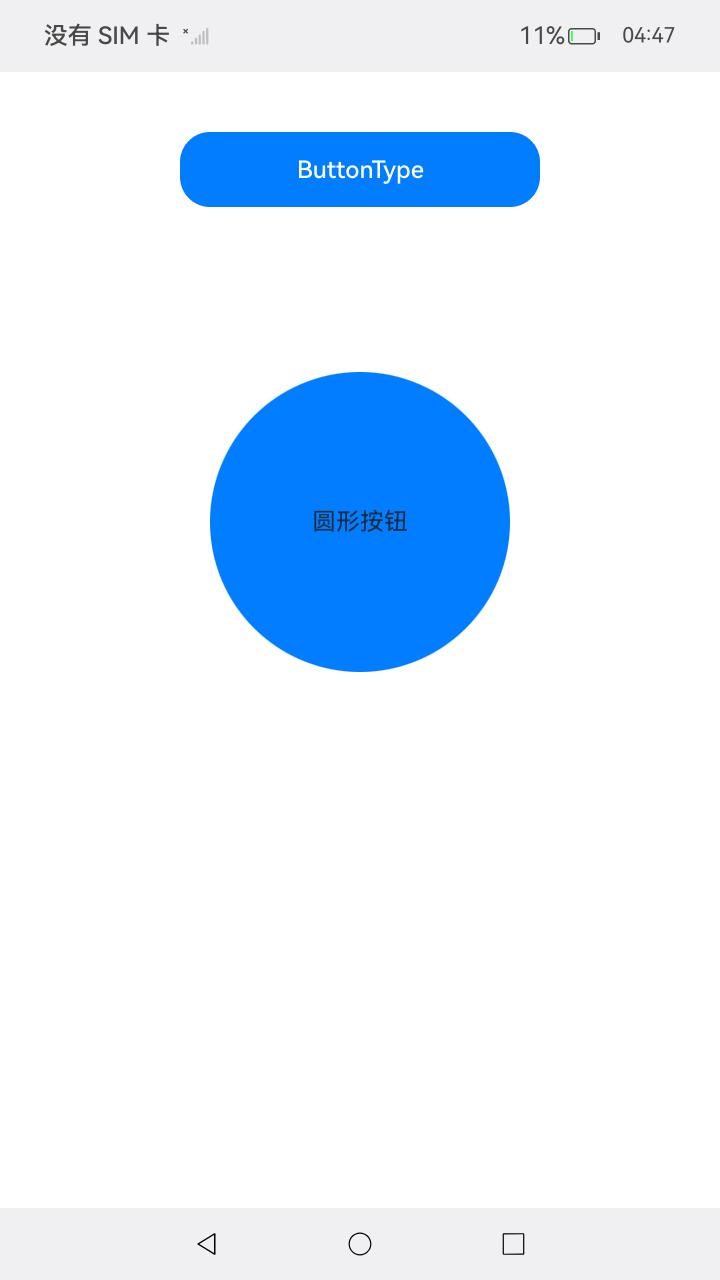
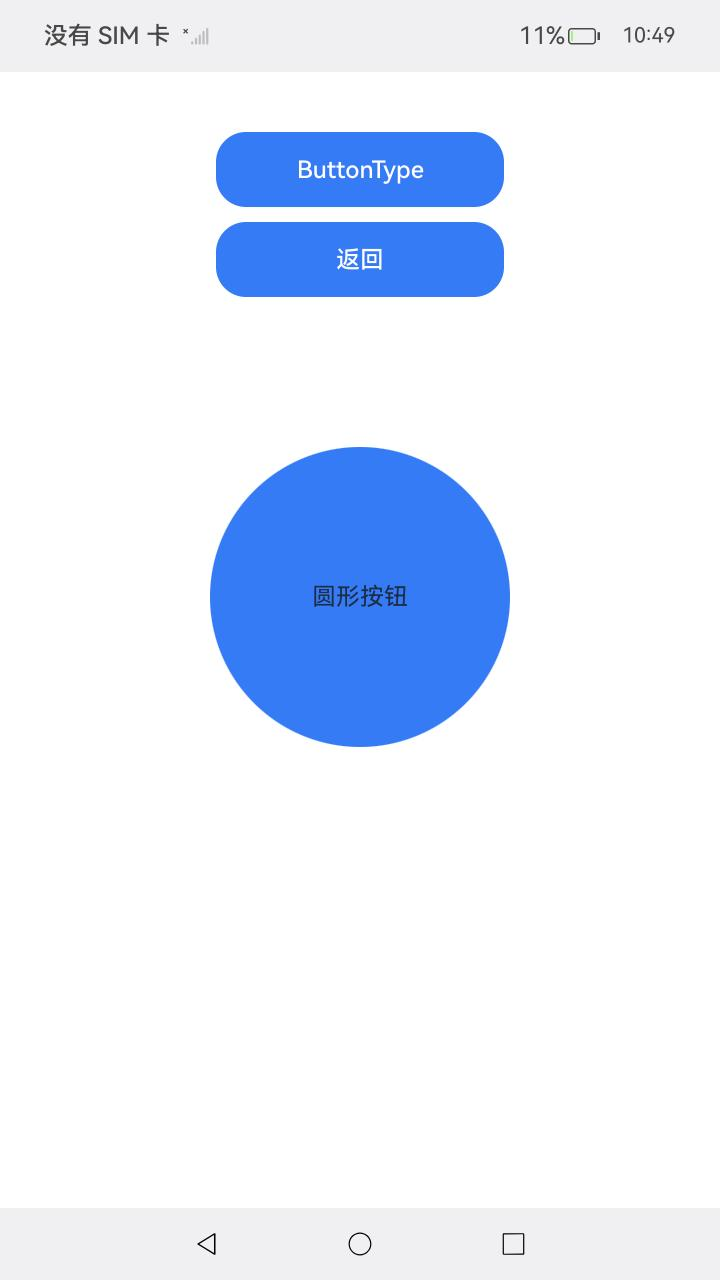
modify native_type_sample

Changed region(s): [[0.275, 0.2812, 0.7333, 0.5938], [0.2444, 0.0938, 0.7639, 0.25], [0.8556, 0.0, 0.8861, 0.0312]]

diff --git a/code/DocsSample/ArkUISample/NativeType/native_type_sample/ohosTest.md b/code/DocsSample/ArkUISample/NativeType/native_type_sample/ohosTest.md
@@ -19,22 +19,22 @@
 | ImageAnimator通过DrawableDescriptor创建并显示    | 1.手机正常开机 2.应用正常安装 | 1.打开应用 2.选择ImageAnimator选项 3.宽度处输入300，高度处输入300，顶部处输入200，左侧处输入200，持续时间处输入200，点击按钮"创建mageAnimator"，选择createImageAnimatorFromDrawableDescriptor 4.点击按钮"获取FrameInfo值并销毁" | 1.应用成功打开 2.CalendarPicker页面正常跳转 3.显示出来一个纯黑图片，宽300px，高300px，位于距上边框200px，左侧200px处 4.显示"height = 300 width = 300 top = 200 left = 200 duration = 200"  | 否       | 验证通过 |
 | 基础 Text 样式展示       | 应用加载完成 | 1.查看第一段文本                                         | 1.宽 200vp 高 30vp 带边框，斜体 600 字重，超长跑马灯、不可复制 | 否       | 验证通过 |
 | TextInput 输入功能     | 应用加载完成 | 1.点击输入框尝试输入                         | 1.支持输入，第一个样式内联，第二个带清除按钮  | 否       | 验证通过 |
-| Button普通样式展示 | 应用位于首页 | 1.点击首页Button按钮 2.点击ButtonType按钮 3.选择ARKUI_BUTTON_TYPE_NORMAL | Button为普通按钮 | 否 | 验证通过 |
-| Button胶囊样式展示 | 应用位于首页 | 1.点击首页Button按钮 2.点击ButtonType按钮 3.选择ARKUI_BUTTON_TYPE_CAPSULE | Button为胶囊型按钮 | 否 | 验证通过 |
-| Button圆形样式展示 | 应用位于首页 | 1.点击首页Button按钮 2.点击ButtonType按钮 3.选择ARKUI_BUTTON_TYPE_CIRCLE | Button为圆形按钮 | 否 | 验证通过 |
-| Button圆角矩形展示 | 应用位于首页 | 1.点击首页Button按钮 2.点击ButtonType按钮 3.选择ARKUI_BUTTON_ROUNDED_RECTANGLE | Button为圆角矩形按钮 | 否 | 验证通过 |
-| Slider默认圆形滑块展示 | 应用位于首页 | 1.点击首页Slider按钮 2.点击SliderBlockStyle按钮 3.选择ARKUI_SLIDER_BLOCK_STYLE_DEFAULT | Slider使用默认圆形滑块 | 否 | 验证通过 |
-| Slider图片资源滑块展示 | 应用位于首页 | 1.点击首页Slider按钮 2.点击SliderBlockStyle按钮 3.选择ARKUI_SLIDER_BLOCK_STYLE_IMAGE | Slider使用图片资源作为滑块 | 否 | 验证通过 |
-| Slider自定义形状滑块展示 | 应用位于首页 | 1.点击首页Slider按钮 2.点击SliderBlockStyle按钮 3.选择ARKUI_SLIDER_BLOCK_STYLE_SHAPE | Slider使用自定义形状作为滑块，示例中为矩形 | 否 | 验证通过 |
-| Slider设置滑块在滑轨上 | 应用位于首页 | 1.点击首页Slider按钮 2.点击SliderStyle按钮 3.选择ARKUI_SLIDER_STYLE_OUT_SET | Slider滑块在滑轨上 | 否 | 验证通过 |
-| Slider设置滑块在滑轨内 | 应用位于首页 | 1.点击首页Slider按钮 2.点击SliderStyle按钮 3.选择ARKUI_SLIDER_STYLE_IN_SET | Slider滑块在滑轨内 | 否 | 验证通过 |
-| Slider设置无滑块 | 应用位于首页 | 1.点击首页Slider按钮 2.点击SliderStyle按钮 3.选择ARKUI_SLIDER_STYLE_NONE | Slider无滑块 | 否 | 验证通过 |
-| Slider设置方向为纵向 | 应用位于首页 | 1.点击首页Slider按钮 2.点击SliderDirection按钮 3.选择ARKUI_SLIDER_DIRECTION_VERTICAL | Slider方向变为为纵向 | 否 | 验证通过 |
-| Slider设置方向为横向 | 应用位于首页 | 1.点击首页Slider按钮 2.点击SliderDirection按钮 3.ARKUI_SLIDER_DIRECTION_HORIZONTAL | Slider方向变为为横向 | 否 | 验证通过 |
-| Checkbox圆形样式展示 | 应用位于首页 | 1.点击首页CheckboxShape按钮 2.点击菜单CheckboxShape，选择ArkUI_CHECKBOX_SHAPE_CIRCLE | 圆形样式Checkbox，可点击进行复选 | 否 | 验证通过 |
-| Checkbox方形样式展示 | 应用位于首页 | 1.点击首页CheckboxShape按钮 2.点击菜单CheckboxShape，选择ArkUI_CHECKBOX_SHAPE_SQUARE | 方形样式Checkbox，可点击进行复选 | 否 | 验证通过 |
-| 设置悬停模式下显示区域的类型为屏幕上半部分区域(仅在折叠屏使用) | 应用位于首页 | 1.点击首页HoverModeAreaType按钮 2.点击菜单HoverModeAreaType，选择ARKUI_HOVER_MODE_AREA_TYPE_TOP | 悬停模式下显示区域的类型为屏幕上半部分区域 | 否 | 验证通过 |
-| 设置悬停模式下显示区域的类型为屏幕下半部分区域(仅在折叠屏使用) | 应用位于首页 | 1.点击首页HoverModeAreaType按钮 2.点击菜单HoverModeAreaType，选择ARKUI_HOVER_MODE_AREA_TYPE_BOTTOM | 悬停模式下显示区域的类型为屏幕下半部分区域 | 否 | 验证通过 |
+| Button普通样式展示 | 应用位于首页 | 1.点击首页Button按钮 2.点击ButtonType按钮 3.选择ARKUI_BUTTON_TYPE_NORMAL 4.点击返回按钮返回首页 | Button为普通按钮 | 否 | 验证通过 |
+| Button胶囊样式展示 | 应用位于首页 | 1.点击首页Button按钮 2.点击ButtonType按钮 3.选择ARKUI_BUTTON_TYPE_CAPSULE 4.点击返回按钮返回首页 | Button为胶囊型按钮 | 否 | 验证通过 |
+| Button圆形样式展示 | 应用位于首页 | 1.点击首页Button按钮 2.点击ButtonType按钮 3.选择ARKUI_BUTTON_TYPE_CIRCLE 4.点击返回按钮返回首页 | Button为圆形按钮 | 否 | 验证通过 |
+| Button圆角矩形展示 | 应用位于首页 | 1.点击首页Button按钮 2.点击ButtonType按钮 3.选择ARKUI_BUTTON_ROUNDED_RECTANGLE 4.点击返回按钮返回首页 | Button为圆角矩形按钮 | 否 | 验证通过 |
+| Slider默认圆形滑块展示 | 应用位于首页 | 1.点击首页Slider按钮 2.点击SliderBlockStyle按钮 3.选择ARKUI_SLIDER_BLOCK_STYLE_DEFAULT 4.点击返回按钮返回首页 | Slider使用默认圆形滑块 | 否 | 验证通过 |
+| Slider图片资源滑块展示 | 应用位于首页 | 1.点击首页Slider按钮 2.点击SliderBlockStyle按钮 3.选择ARKUI_SLIDER_BLOCK_STYLE_IMAGE 4.点击返回按钮返回首页 | Slider使用图片资源作为滑块 | 否 | 验证通过 |
+| Slider自定义形状滑块展示 | 应用位于首页 | 1.点击首页Slider按钮 2.点击SliderBlockStyle按钮 3.选择ARKUI_SLIDER_BLOCK_STYLE_SHAPE 4.点击返回按钮返回首页 | Slider使用自定义形状作为滑块，示例中为矩形 | 否 | 验证通过 |
+| Slider设置滑块在滑轨上 | 应用位于首页 | 1.点击首页Slider按钮 2.点击SliderStyle按钮 3.选择ARKUI_SLIDER_STYLE_OUT_SET 4.点击返回按钮返回首页 | Slider滑块在滑轨上 | 否 | 验证通过 |
+| Slider设置滑块在滑轨内 | 应用位于首页 | 1.点击首页Slider按钮 2.点击SliderStyle按钮 3.选择ARKUI_SLIDER_STYLE_IN_SET 4.点击返回按钮返回首页 | Slider滑块在滑轨内 | 否 | 验证通过 |
+| Slider设置无滑块 | 应用位于首页 | 1.点击首页Slider按钮 2.点击SliderStyle按钮 3.选择ARKUI_SLIDER_STYLE_NONE 4.点击返回按钮返回首页 | Slider无滑块 | 否 | 验证通过 |
+| Slider设置方向为纵向 | 应用位于首页 | 1.点击首页Slider按钮 2.点击SliderDirection按钮 3.选择ARKUI_SLIDER_DIRECTION_VERTICAL 4.点击返回按钮返回首页 | Slider方向变为为纵向 | 否 | 验证通过 |
+| Slider设置方向为横向 | 应用位于首页 | 1.点击首页Slider按钮 2.点击SliderDirection按钮 3.选择ARKUI_SLIDER_DIRECTION_HORIZONTAL 4.点击返回按钮返回首页 | Slider方向变为为横向 | 否 | 验证通过 |
+| Checkbox圆形样式展示 | 应用位于首页 | 1.点击首页CheckboxShape按钮 2.点击菜单CheckboxShape，选择ArkUI_CHECKBOX_SHAPE_CIRCLE 3.点击返回按钮返回首页 | 圆形样式Checkbox，可点击进行复选 | 否 | 验证通过 |
+| Checkbox方形样式展示 | 应用位于首页 | 1.点击首页CheckboxShape按钮 2.点击菜单CheckboxShape，选择ArkUI_CHECKBOX_SHAPE_SQUARE 3.点击返回按钮返回首页 | 方形样式Checkbox，可点击进行复选 | 否 | 验证通过 |
+| 设置悬停模式下显示区域的类型为屏幕上半部分区域(仅在折叠屏使用) | 应用位于首页 | 1.点击首页HoverModeAreaType按钮 2.点击菜单HoverModeAreaType，选择ARKUI_HOVER_MODE_AREA_TYPE_TOP 3.点击返回按钮返回首页 | 悬停模式下显示区域的类型为屏幕上半部分区域 | 否 | 验证通过 |
+| 设置悬停模式下显示区域的类型为屏幕下半部分区域(仅在折叠屏使用) | 应用位于首页 | 1.点击首页HoverModeAreaType按钮 2.点击菜单HoverModeAreaType，选择ARKUI_HOVER_MODE_AREA_TYPE_BOTTOM 3.点击返回按钮返回首页 | 悬停模式下显示区域的类型为屏幕下半部分区域 | 否 | 验证通过 |
 | EmbeddedComponent OnErrorCallback回调成功 | 执行 hdc shell param set persist.sys.abilityms.multi_process_model false 后重启，应用位于首页 | 1.点击首页embedded component按钮 | EmbeddedComponent onError回调被触发，打印日志{OnErrorCallback:        code=100018, name=start_ability_fail, message=Start ui extension ability failed, please check the want of UIextensionAbility.} | 否 | 验证通过 |
 | EmbeddedComponent OnTerminatedCallback回调成功 | 执行 hdc shell param set persist.sys.abilityms.multi_process_model true 后重启，应用位于首页 | 1.点击首页embedded component按钮 | EmbeddedComponent onError回调被触发，打印日志{OnTerminatedCallback: code=0} | 否 | 验证通过 |
 | 文本无障碍属性设置 | 应用位于首页 | 1.点击首页Accessibility按钮 | 观测Get日志设置属性值与Set函数一致 | 否 | 验证通过 |
